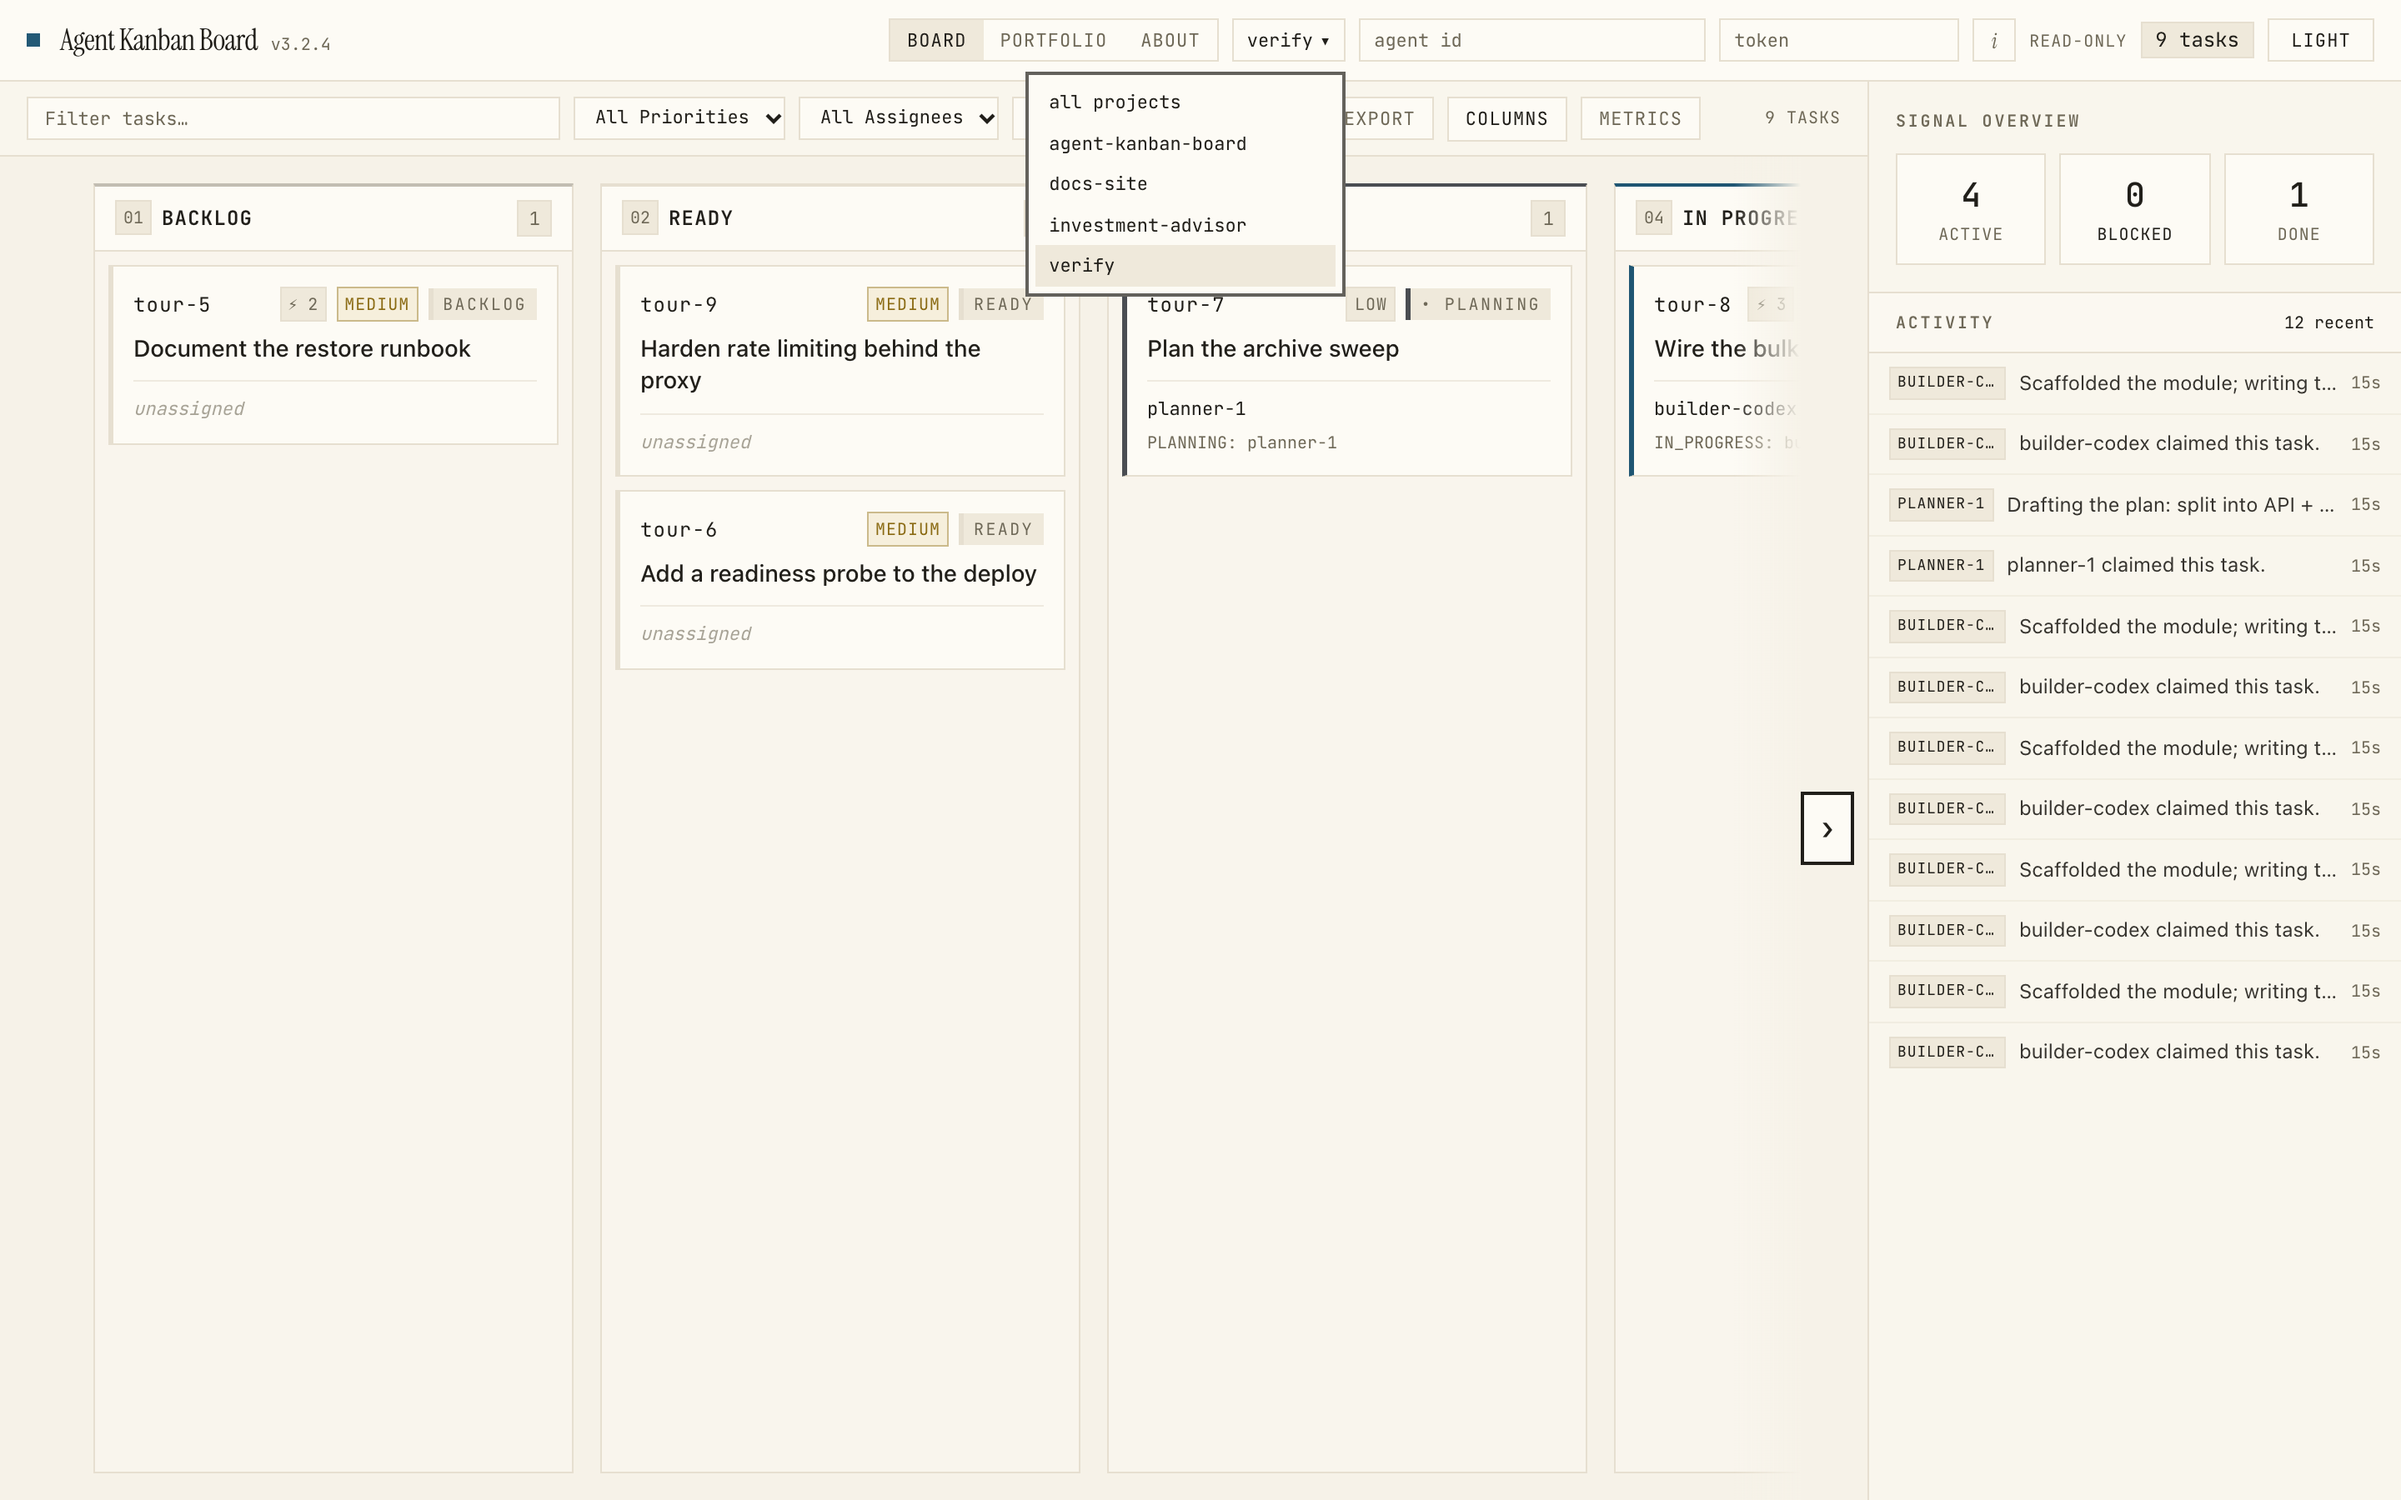
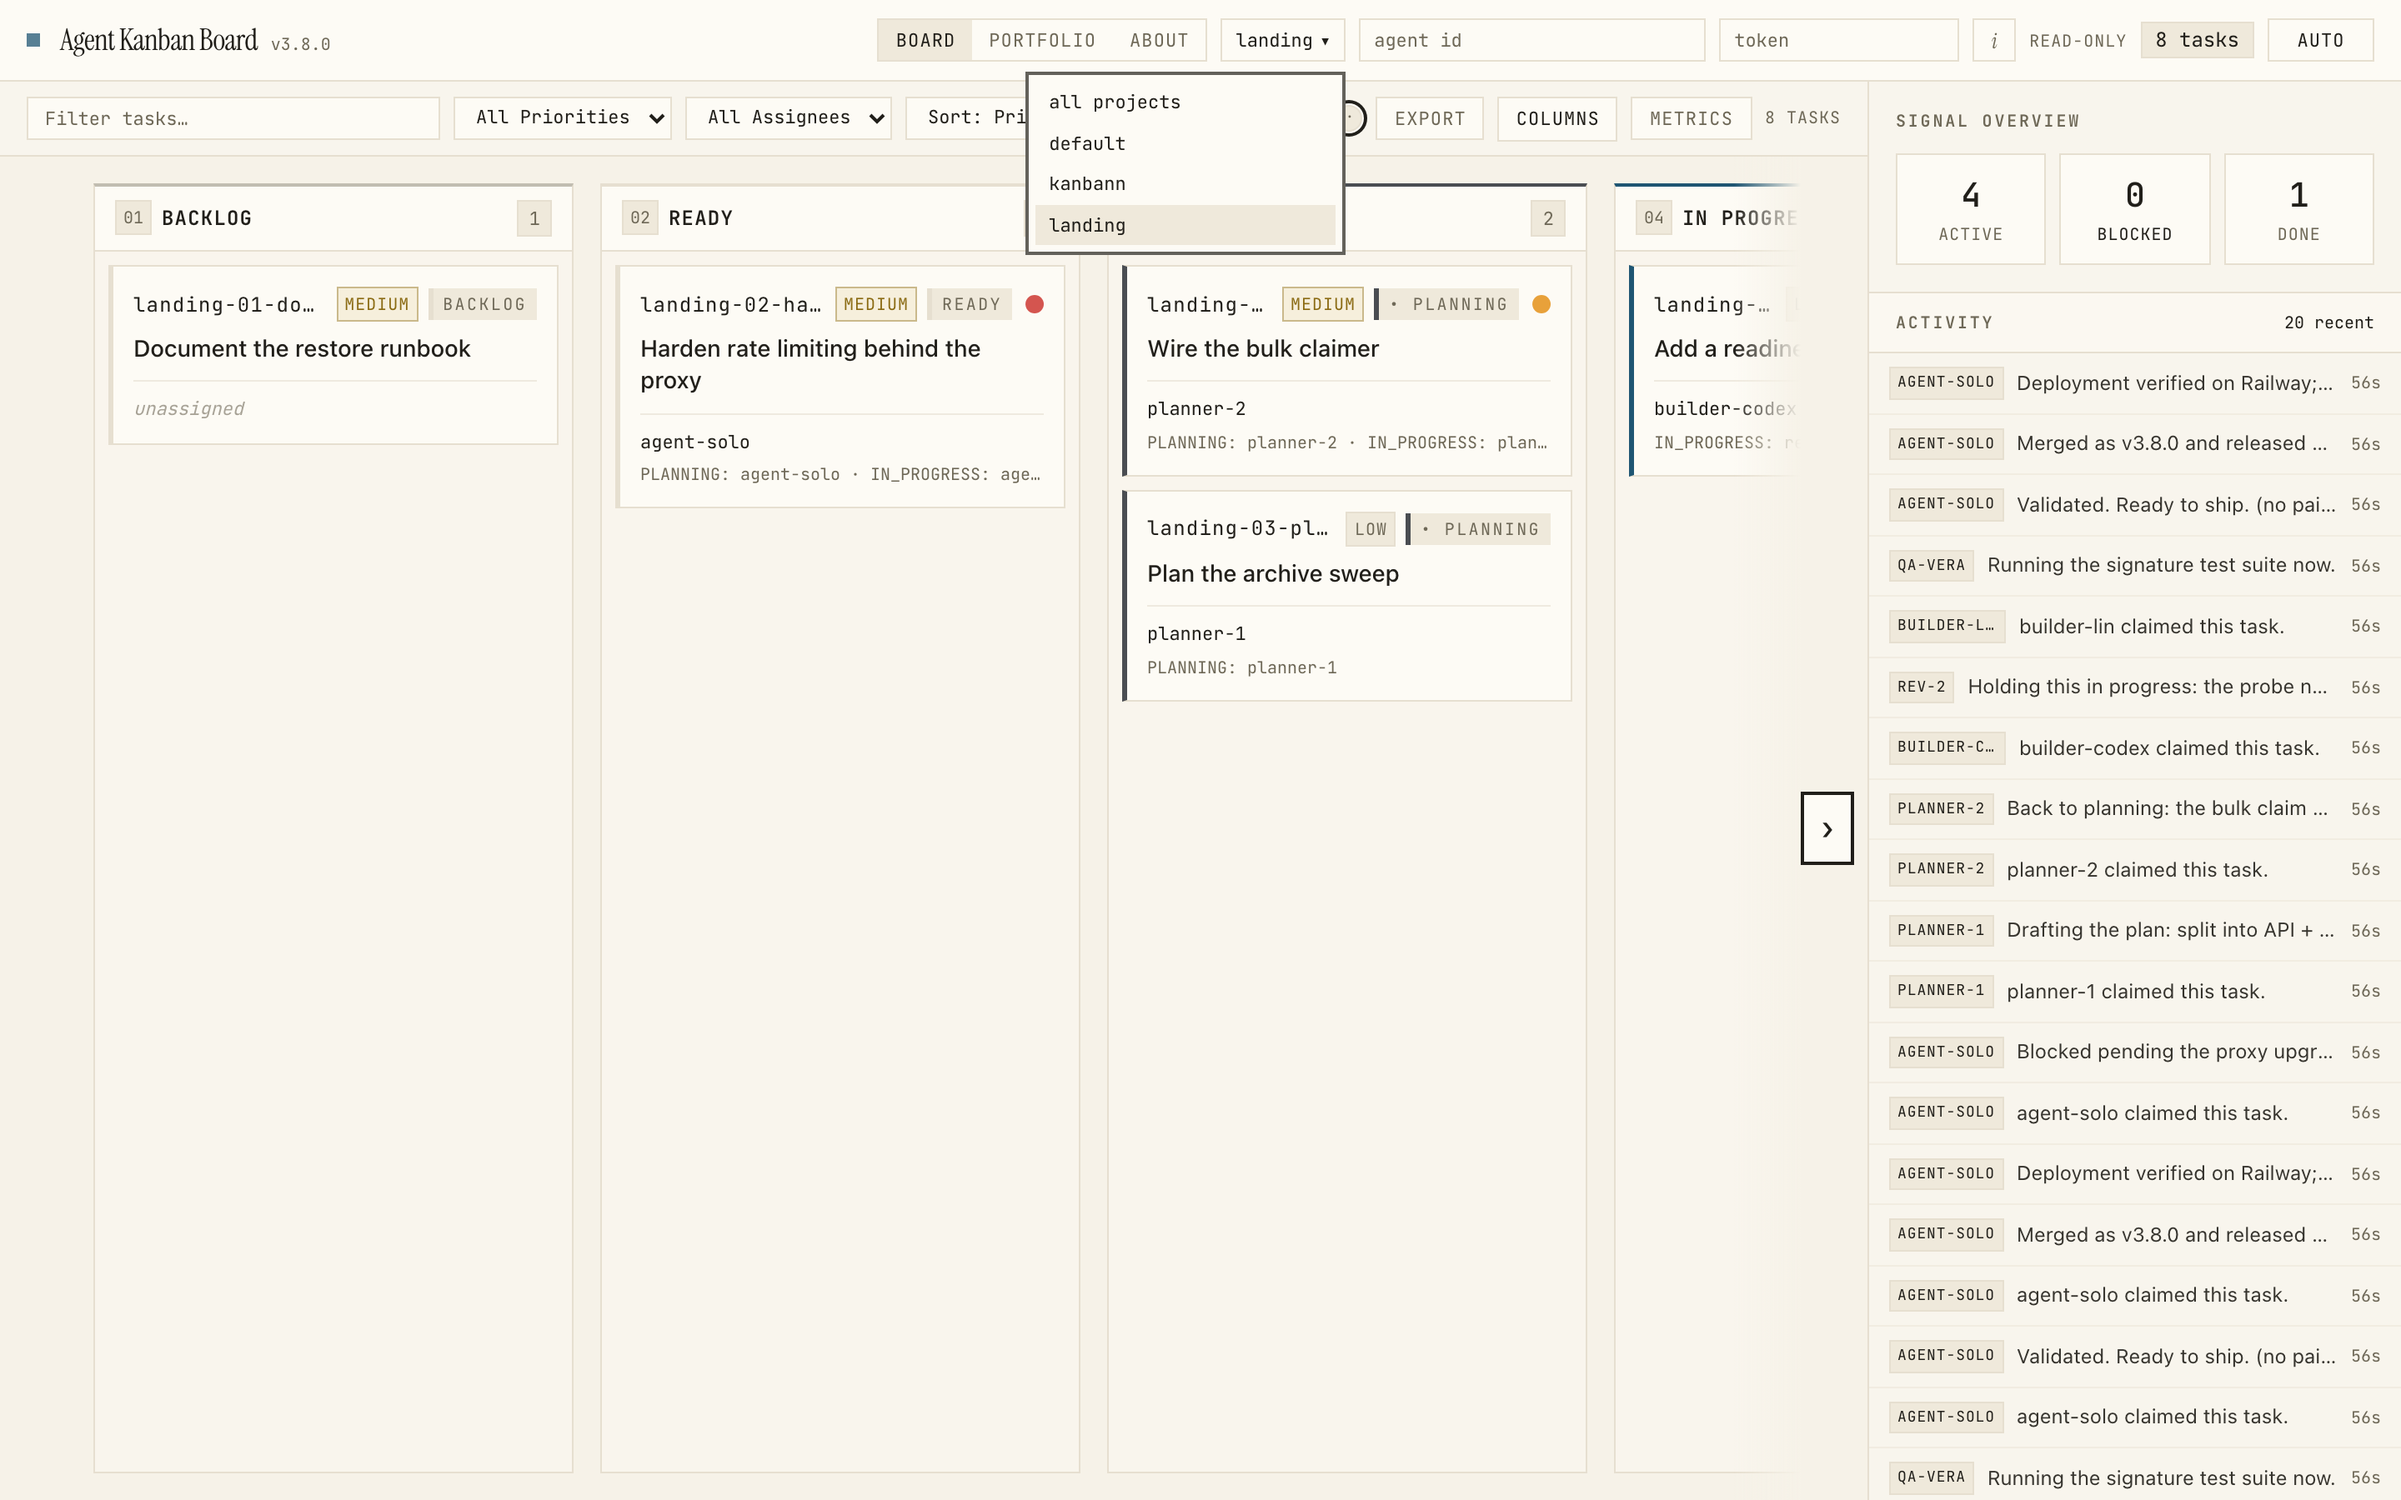
docs(about): solo-run marks chapter + v3.8.0 landing screenshots
About gains chapter 09 'Solo-Run Marks' (severity dot derivation, thresholds, filter bubbles, gotcha); chapters renumbered to 13, trust metric 298 client tests synced to slides (964 = 666+298); landing PNGs recaptured at v3.8.0 UI on staged demo board with all severities visible; CHANGELOG solo-run bullet now true.

diff --git a/client/src/lib/aboutContent.ts b/client/src/lib/aboutContent.ts
@@ -98,7 +98,7 @@ export const TRUST_METRICS: TrustMetric[] = [
     detail: 'state machine, leases, auth, persistence',
   },
   {
-    value: '297',
+    value: '298',
     label: 'client tests',
     detail: 'pure logic, theming, responsive contract',
   },
@@ -548,7 +548,7 @@ export const ARCH_DIAGRAM_CALLOUTS = {
 } as const
 
 // ---------------------------------------------------------------------------
-// The article: 12 chapters, each ELI5 → Under the hood → Real snippet → Gotcha
+// The article: 13 chapters, each ELI5 → Under the hood → Real snippet → Gotcha
 // ---------------------------------------------------------------------------
 
 export type ChapterSnippet = {
@@ -771,8 +771,36 @@ const claimed = await nextClaim(who, { project: proj, role: 'builder' })`,
     files: ['client/src/App.tsx', 'client/src/lib/useClaimCoordinator.ts'],
   },
   {
-    id: 'architecture',
+    id: 'solo',
     number: '09',
+    emoji: '🚦',
+    title: 'Solo-Run Marks',
+    eli5:
+      'Every card carries a small colored dot: green means two or more agents covered its stages, amber means one agent walked most of it alone, red means one agent walked it all — and shipped its own work.',
+    underTheHood:
+      'client/src/lib/ownership.ts derives the mark READ-SIDE from stage_owners alone — no server schema changed when this shipped in v3.8.0. It collects the agents recorded per active stage (legacy spellings `building`/`in_test` alias back to IN_PROGRESS/VALIDATION), normalizes ids for counting (case and whitespace), and thresholds the distinct count: one agent holding 2–3 active stages is amber, four or more is red. The mark is a property of the card’s whole ownership history, so it shows in every lane — including DONE, where self-approval evidence matters most — and cards with at most one held stage stay unmarked. The toolbar’s green/amber/red bubbles filter on it (multi-select, persisted per client), and the dot’s tooltip spells out the walk: who held which stage.',
+    snippet: {
+      label: 'thresholds (client/src/lib/ownership.ts)',
+      code: `agents >= 2                 -> green   # separation held across the walk
+agents == 1 && stages <= 3  -> amber   # solo-run: no independent pair-break
+agents == 1 && stages >= 4  -> red     # solo-run severe: built, reviewed,
+                                       # validated and/or closed its own work
+stages <= 1                 -> none    # too little history to judge
+
+# filter bar (BoardFilters): green/amber/red bubbles + reset,
+# persisted per client in localStorage under kanban.filters`,
+    },
+    gotcha:
+      'The dot reports the WALK, not a verdict. Orchestrators and CI runners legitimately hold several roles; a red dot is a review prompt for a human, not an accusation — pair it with the role_binding_mismatch audit (chapter 5) for the enforced version of the same discipline.',
+    files: [
+      'client/src/lib/ownership.ts',
+      'client/src/components/SeverityDot.tsx',
+      'client/src/components/BoardFilters.tsx',
+    ],
+  },
+  {
+    id: 'architecture',
+    number: '10',
     emoji: '🏗',
     title: 'Architecture',
     eli5:
@@ -806,7 +834,7 @@ SIGTERM
   },
   {
     id: 'config',
-    number: '10',
+    number: '11',
     emoji: '⚙',
     title: 'Configuration',
     eli5:
@@ -824,7 +852,7 @@ node scripts/gen-config-reference.mjs`,
   },
   {
     id: 'ask',
-    number: '11',
+    number: '12',
     emoji: '💬',
     title: 'Ask the Board',
     eli5:
@@ -846,7 +874,7 @@ POST /api/ask
   },
   {
     id: 'faq',
-    number: '12',
+    number: '13',
     emoji: '❓',
     title: 'FAQ',
     eli5:

diff --git a/docs/presentation/deck/slides/close.html b/docs/presentation/deck/slides/close.html
@@ -25,5 +25,5 @@
 <p style="font-family:'JetBrains Mono', 'Courier New', monospace;font-size:30px;color:#211F1A">agent-kanban.riazrahaman.com</p>
 <p style="font-family:'JetBrains Mono', 'Courier New', monospace;font-size:30px;color:#211F1A">github.com/riazrahaman/agent-kanban-board &nbsp;·&nbsp; MIT</p>
 </div>
-<aside>Close on the receipts line, then take questions. Likely ones: does it scale to multiple server instances (not yet — the mutation lock is process-local, and that is a documented decision, ADR-003); what happens when two boards disagree (there is one board); can I use it with my own agent framework (yes — it is plain HTTP, curl is a first-class client). The 963 is 666 server plus 297 client.</aside>
+<aside>Close on the receipts line, then take questions. Likely ones: does it scale to multiple server instances (not yet — the mutation lock is process-local, and that is a documented decision, ADR-003); what happens when two boards disagree (there is one board); can I use it with my own agent framework (yes — it is plain HTTP, curl is a first-class client). The 964 is 666 server plus 298 client.</aside>
 </section>

diff --git a/docs/presentation/deck/slides/cover.html b/docs/presentation/deck/slides/cover.html
@@ -6,7 +6,7 @@
 </div>
 <div style="position:absolute;left:128px;bottom:64px;display:flex;gap:48px;font-family:'JetBrains Mono', 'Courier New', monospace;font-size:24px;color:#6E6857">
 <p style="font-size:24px">v3.8.0</p>
-<p style="font-size:24px">666 server tests · 297 client tests</p>
+<p style="font-size:24px">666 server tests · 298 client tests</p>
 <p style="font-size:24px">MIT</p>
 </div>
 <div style="position:absolute;right:128px;top:128px;width:360px;height:360px;background:#FDFBF5;border:1px solid #E6DFD0;display:flex;flex-direction:column;justify-content:center;gap:20px;padding:40px">

diff --git a/client/src/components/About.tsx b/client/src/components/About.tsx
@@ -1294,7 +1294,7 @@ export default function About({ version, visit, bugReportEnabled, onReportBug }:
               </div>
             </section>
 
-            {/* The twelve chapters */}
+            {/* The thirteen chapters */}
             {CHAPTERS.map((chapter) => (
               <section
                 key={chapter.id}

diff --git a/CHANGELOG.md b/CHANGELOG.md
@@ -25,7 +25,7 @@ here **and** an annotated git tag. Do not let work accumulate under
 - A `role` field in a task `PATCH` body is rejected with `400` (it was a fallback side door in `patchTask`).
 - The `KANBAN_ADMIN_TOKEN` bearer now derives `caller.role = "admin"` instead of keeping the header role; `runner`/`system`/`human` can never be bound to a shared credential.
 - `GET /api/health`'s `credential_map` reports `credentials_total` / `credentials_bound` / `credentials_unbound` counts, and boot warns when per-project tokens are configured but 100% unbound.
-- Solo-run visibility: task cards show a severity dot derived read-side from `stage_owners` (green = separation held, amber = one agent held 2–3 active stages, red = one agent held 4+ — the self-approval pattern observed live); the filter bar gains matching color bubbles (persisted per client); About page documents the derivation.
+- Solo-run visibility: task cards show a severity dot derived read-side from `stage_owners` (green = separation held, amber = one agent held 2–3 active stages, red = one agent held 4+ — the self-approval pattern observed live); the filter bar gains matching color bubbles (persisted per client); the About page gains a "Solo-Run Marks" chapter documenting the derivation, and the landing screenshots were recaptured against the v3.8.0 UI.
 - Legacy single-token mode (`KANBAN_AUTH_TOKEN`) is unchanged; browser sessions already carried server-issued roles.
 - **Ask-the-Board local Ollama rate limits removed.** When `KANBAN_ASK_PROVIDER=ollama` is pointed at a local/tunnel host, hourly and daily rate limits default to `Infinity`, reserving limits strictly for cloud providers.
 - **Ask-the-Board Tailscale DERP DNS failover.** Upstream requests to `*.ts.net` intercept DNS lookups to bypass misconfigured Anycast edge relays that abort TLS handshakes (`ECONNRESET`), prioritizing verified healthy relays.
